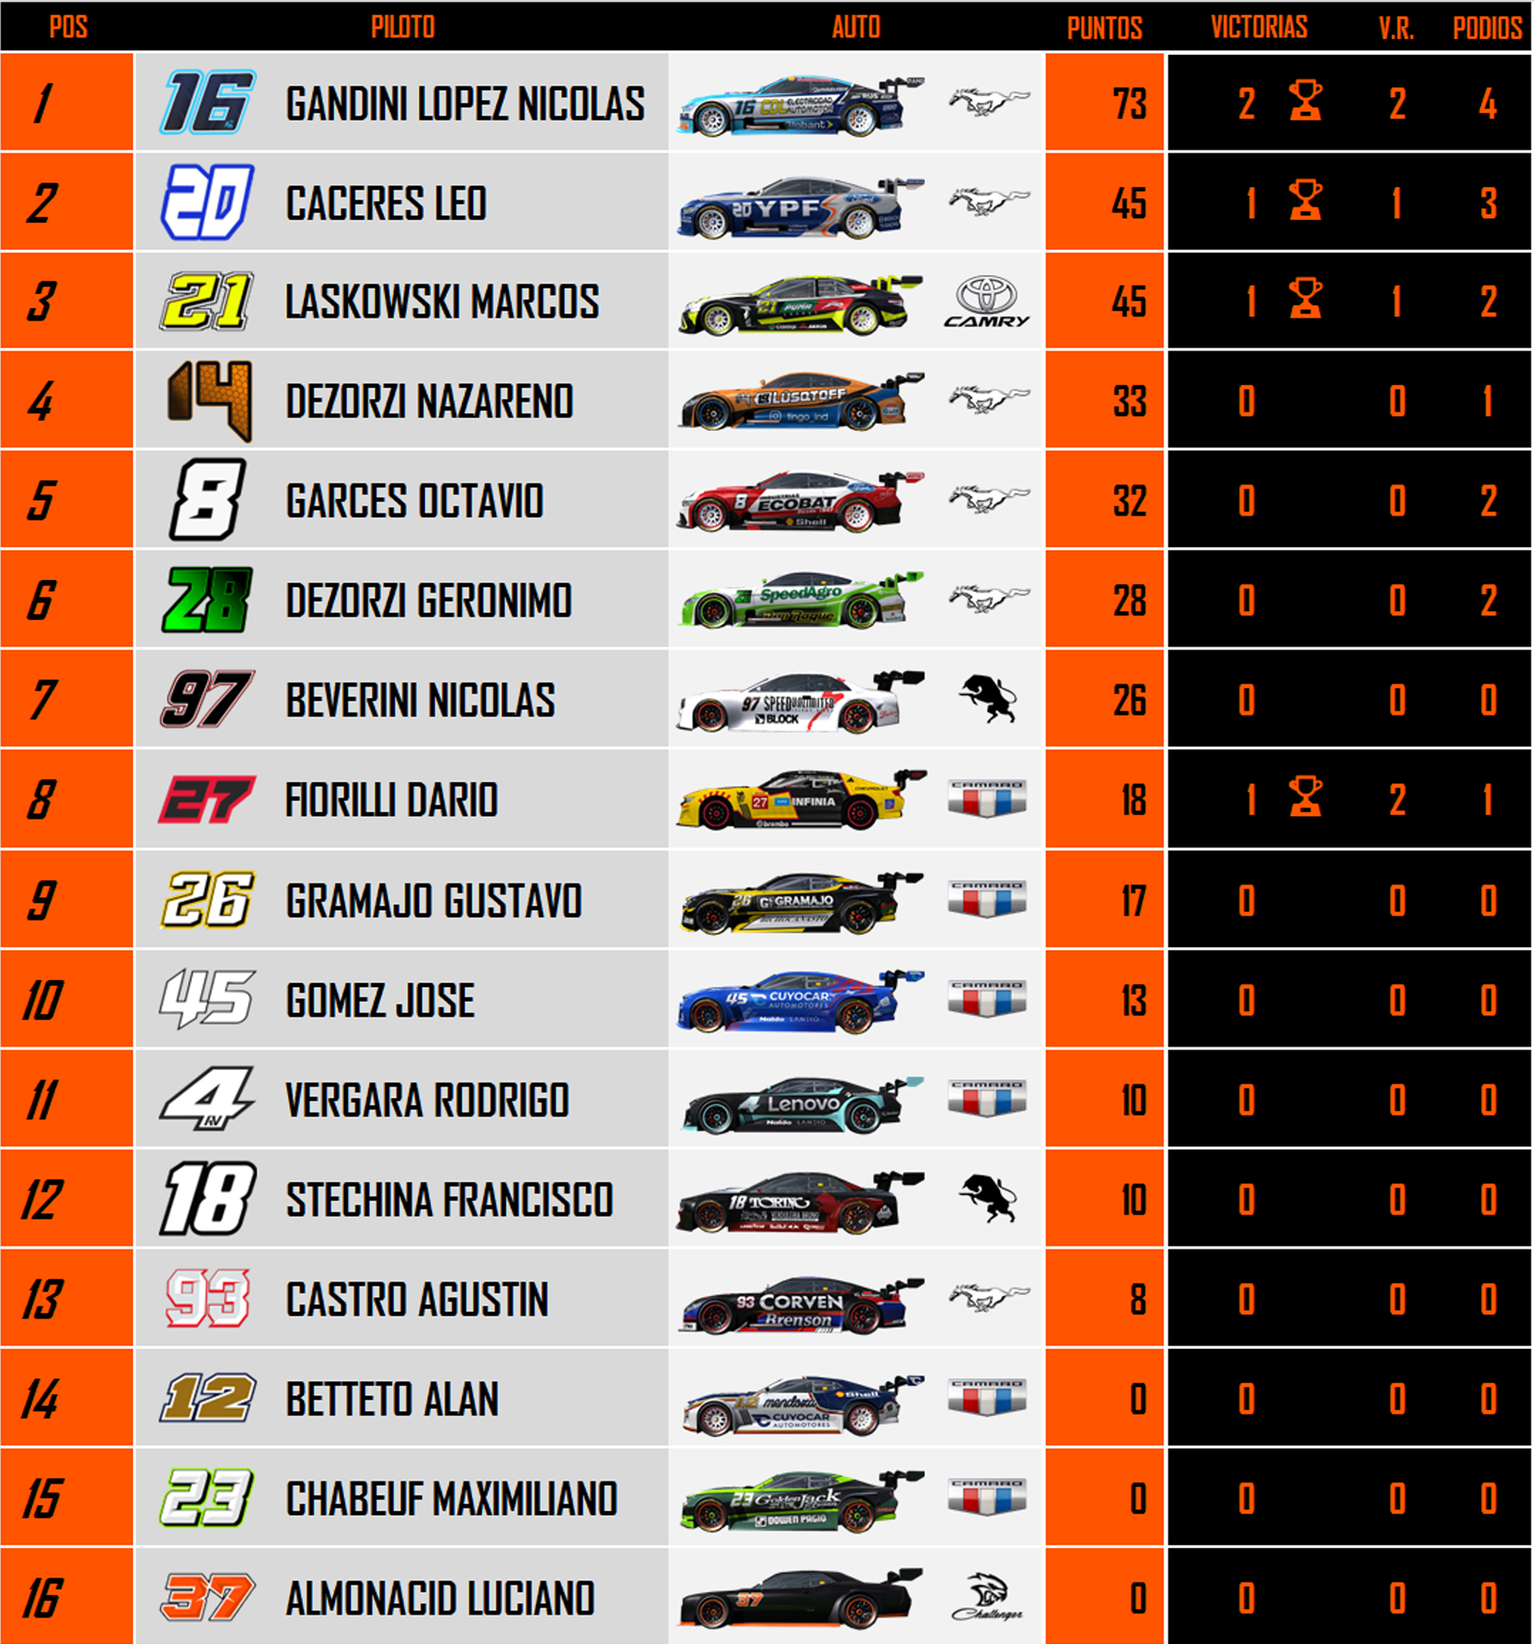
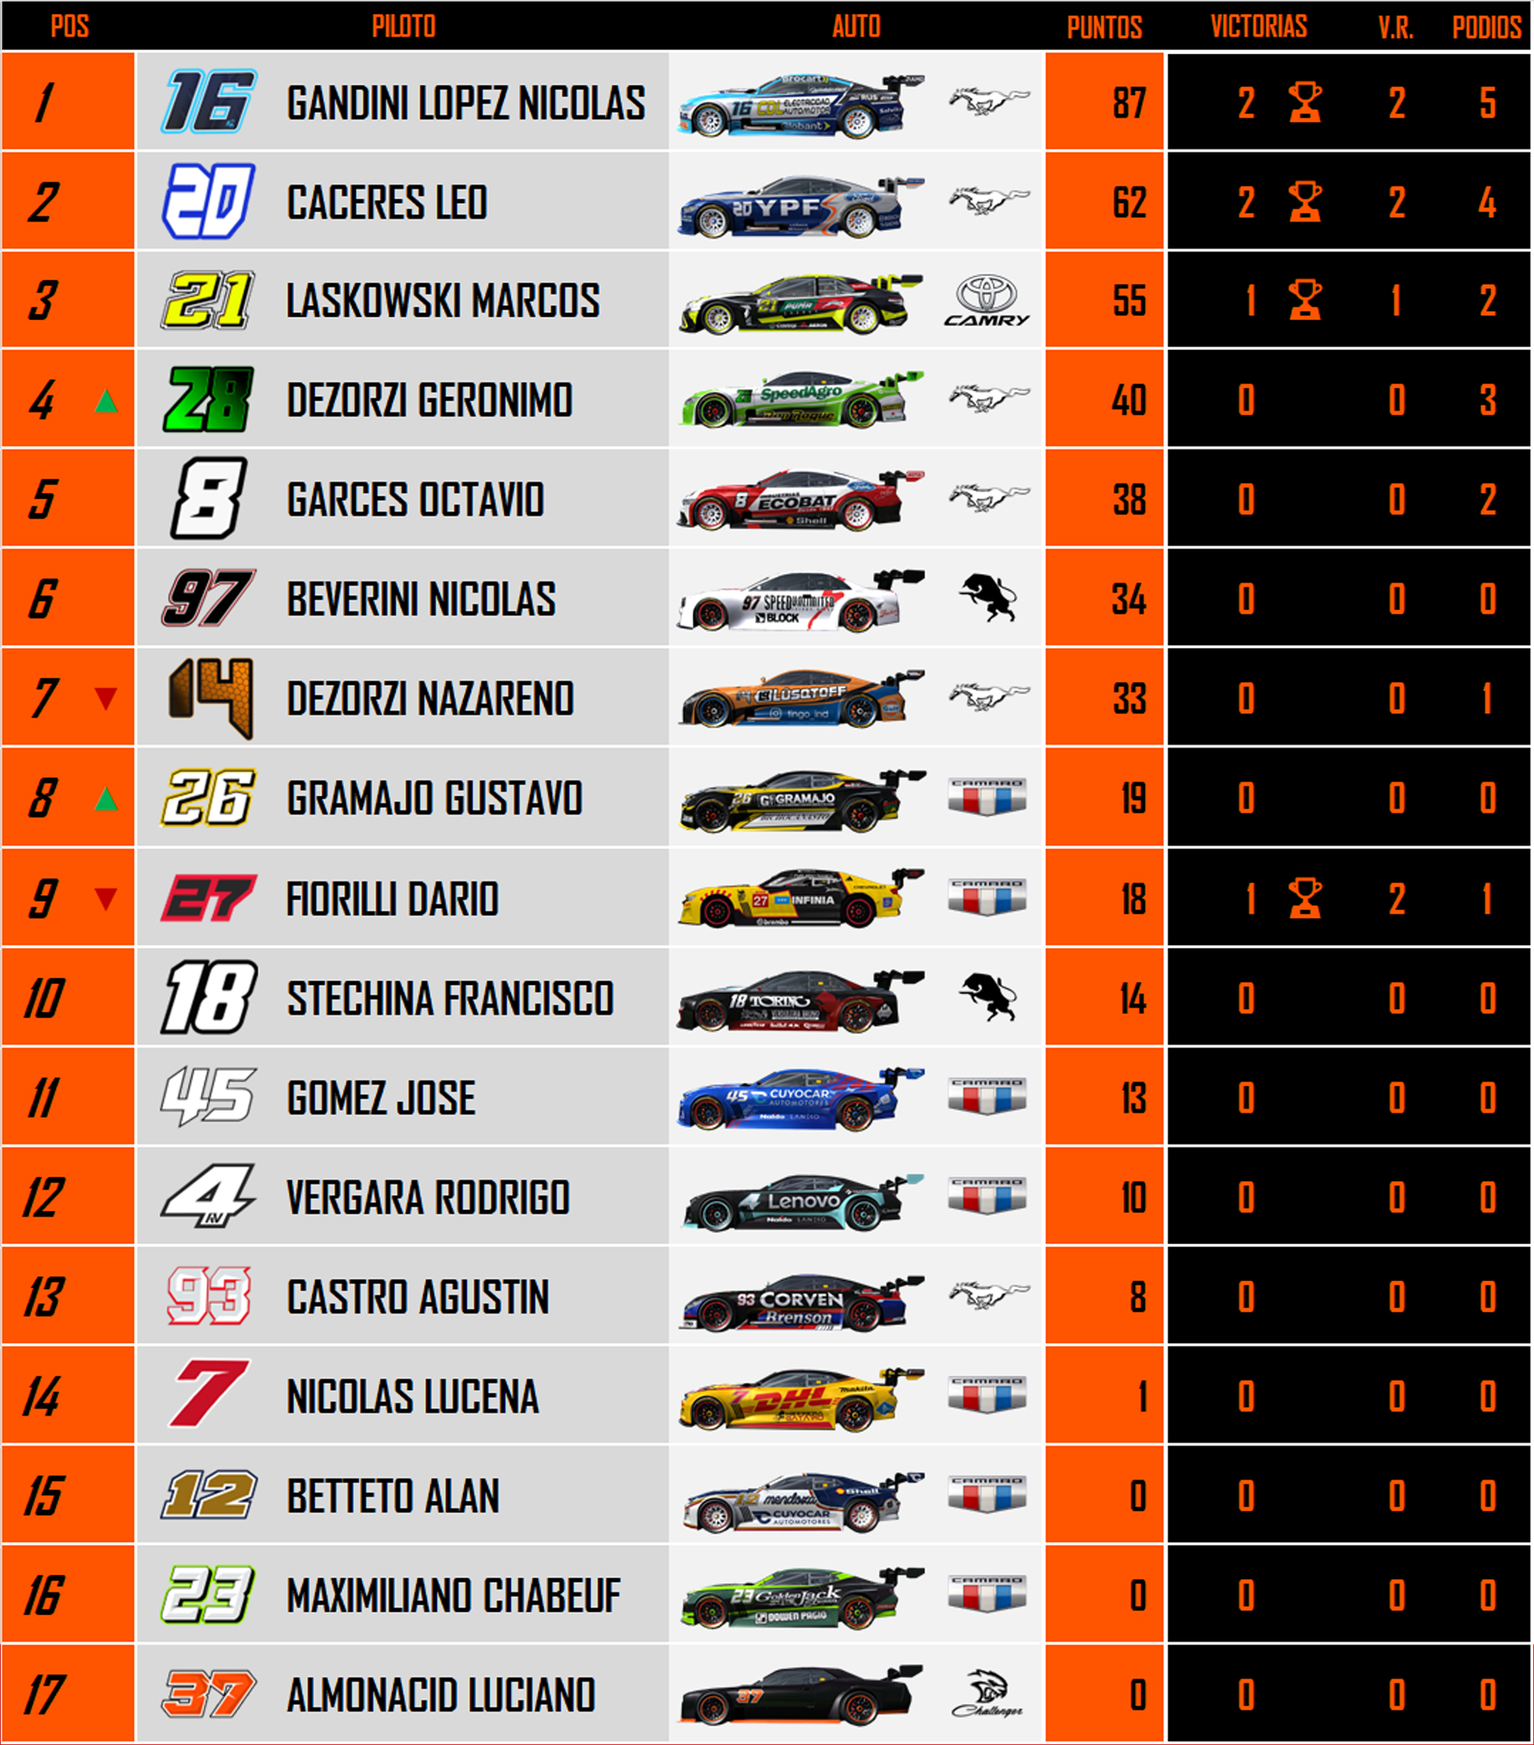
update 8 de julio

diff --git a/index.html b/index.html
@@ -19,12 +19,12 @@
     </nav>
     <aside class="banner-next-circuit-background">
         <section class="banner-next-circuit">
-            <p class="banner-date">PROXIMA FECHA: 30/06/2024</p>
+            <p class="banner-date">PROXIMA FECHA: 28/07/2024</p>
             <!--<section class="banner-section">
                 <img src="./assets/circuitos/ovalo.png" alt="" class="img-banner">
                 <p class="banner-name"> 50 DE RAFAELA</p>-->
           </section>
-          <img src="./assets/portada6.jpg" alt="" class="banner-section">
+          <img src="./assets/portada7.jpg" alt="" class="banner-section">
     </aside>
     <aside class="banner-countdown">
     <table id="countdown">
@@ -88,27 +88,28 @@
         <section class="resultadosmain">
           <section class="campeonatomain">
             <a href="campeonato.html" class="headercampeonatomain">Campeonato</a>
-            <div> <p class="posicion">1</p> <img src="./assets/Autos/16GANDINI.png" alt=""> <p class="nombrecampeonato">GANDINI LOPEZ</p> <p class="posicion pts">51</p></div>
-            <div> <p class="posicion">2</p> <img src="./assets/Autos/20CACERES.png" alt=""> <p class="nombrecampeonato">CACERES</p> <p class="posicion pts">45</p></div>
-            <div> <p class="posicion">3</p> <img src="./assets/Autos/08GARCES.png" alt=""> <p class="nombrecampeonato">GARCES</p> <p class="posicion pts">32</p></div>
-            <div> <p class="posicion">4</p> <img src="./assets/Autos/21LASKOWSKI.png" alt=""> <p class="nombrecampeonato">LASKOWSKI</p> <p class="posicion pts">27</p></div>
-            <div> <p class="posicion">5</p> <img src="./assets/Autos/97BEVERINI.png" alt=""> <p class="nombrecampeonato">BEVERINI</p> <p class="posicion pts">26</p></div>
+            <div> <p class="posicion">1</p> <img src="./assets/Autos/16GANDINI.png" alt=""> <p class="nombrecampeonato">GANDINI LOPEZ</p> <p class="posicion pts">87</p></div>
+            <div> <p class="posicion">2</p> <img src="./assets/Autos/20CACERES.png" alt=""> <p class="nombrecampeonato">CACERES</p> <p class="posicion pts">62</p></div>
+            <div> <p class="posicion">3</p> <img src="./assets/Autos/21LASKOWSKI.png" alt=""> <p class="nombrecampeonato">LASKOWSKI</p> <p class="posicion pts">55</p></div>
+            <div> <p class="posicion">4</p> <img src="./assets/Autos/28DEZORZI.png" alt=""> <p class="nombrecampeonato">DEZORZI</p> <p class="posicion pts">40</p></div>
+            <div> <p class="posicion">5</p> <img src="./assets/Autos/08GARCES.png" alt=""> <p class="nombrecampeonato">GARCES</p> <p class="posicion pts">38</p></div>
           </section>
           <section class="carreramain">
             <p class="headercampeonatomain">Ultima Carrera</p>
-            <div> <p class="posicion">1</p> <img src="./assets/Autos/NUMEROS/21LASKOWSKI.png" alt=""> <p class="nombrecampeonato">MARCOS LASKOWSKI</p></div>
+            <div> <p class="posicion">1</p> <img src="./assets/Autos/NUMEROS/20CACERES.png" alt=""> <p class="nombrecampeonato">LEO CACERES</p></div>
             <div> <p class="posicion">2</p> <img src="./assets/Autos/NUMEROS/16NGL.png" alt=""> <p class="nombrecampeonato">NICOLAS GANDINI LOPEZ</p></div>
-            <div> <p class="posicion">3</p> <img src="./assets/Autos/NUMEROS/8GARCES.png" alt=""> <p class="nombrecampeonato">OCTAVIO GARCES</p></div>
-            <div> <p class="posicion">4</p> <img src="./assets/Autos/NUMEROS/20CACERES.png" alt=""> <p class="nombrecampeonato">LEO CACERES</p></div>
-            <div> <p class="posicion">5</p> <img src="./assets/Autos/NUMEROS/18stechini.png" alt=""> <p class="nombrecampeonato">FRANCISCO STECHINA</p></div>
-            <div> <p class="posicion">6</p> <img src="./assets/Autos/NUMEROS/26GRAMAJO.png" alt=""> <p class="nombrecampeonato">GUSTAVO GRAMAJO</p></div>
-            <div> <p class="posicion">7</p> <img src="./assets/Autos/NUMEROS/45GOMEZ.png" alt=""> <p class="nombrecampeonato">JOSE GOMEZ</p></div>
-            <div> <p class="posicion">8</p> <img src="./assets/Autos/NUMEROS/97BEVERINI.png" alt=""> <p class="nombrecampeonato">NICOLAS BEVERINI</p></div>
+            <div> <p class="posicion">3</p> <img src="./assets/Autos/NUMEROS/28DEZORZI.png" alt=""> <p class="nombrecampeonato">GERONIMO DEZORZI</p></div>
+            <div> <p class="posicion">4</p> <img src="./assets/Autos/NUMEROS/21LASKOWSKI.png" alt=""> <p class="nombrecampeonato">MARCOS LASKOWSKI</p></div>
+            <div> <p class="posicion">5</p> <img src="./assets/Autos/NUMEROS/97BEVERINI.png" alt=""> <p class="nombrecampeonato">NICOLAS BEVERINI</p></div>
+            <div> <p class="posicion">6</p> <img src="./assets/Autos/NUMEROS/8GARCES.png" alt=""> <p class="nombrecampeonato">OCTAVIO GARCES</p></div>
+            <div> <p class="posicion">7</p> <img src="./assets/Autos/NUMEROS/18stechini.png" alt=""> <p class="nombrecampeonato">FRANCISCO STECHINA</p></div>
+            <div> <p class="posicion">8</p> <img src="./assets/Autos/NUMEROS/26GRAMAJO.png" alt=""> <p class="nombrecampeonato">GUSTAVO GRAMAJO</p></div>
+            <div> <p class="posicion">9</p> <img src="./assets/Autos/NUMEROS/7LUCENA.png" alt=""> <p class="nombrecampeonato">NICOLAS LUCENA</p></div>
           </section>
         </section>
         <section class="carrouselsta">
           <p>ULTIMA CARRERA COMPLETA</p>
-          <iframe class="videocarreramain" src="https://www.youtube.com/embed/aRdhL1cANm8?si=mqEtnO8UrXr0YvK9" title="YouTube video player" frameborder="0" allow="accelerometer; autoplay; clipboard-write; encrypted-media; gyroscope; picture-in-picture; web-share" referrerpolicy="strict-origin-when-cross-origin" allowfullscreen></iframe>
+          <iframe class="videocarreramain" src="https://www.youtube.com/embed/7MJa9mUQ8cQ?si=h0Rix7i_mPAqwFTK" title="YouTube video player" frameborder="0" allow="accelerometer; autoplay; clipboard-write; encrypted-media; gyroscope; picture-in-picture; web-share" referrerpolicy="strict-origin-when-cross-origin" allowfullscreen></iframe>
         </section>
     </main>
     <footer class="footer-background">

diff --git a/pilotos/lucena.html b/pilotos/lucena.html
@@ -1,0 +1,76 @@
+<!DOCTYPE html>
+<html lang="en">
+<head>
+    <meta charset="UTF-8">
+    <meta name="viewport" content="width=device-width, initial-scale=1.0">
+    <title>STA VIRTUAL</title>
+    <link rel="shortcut icon" href="../assets/sta-icon.png" type="image/x-icon">
+    <link href="https://cdn.jsdelivr.net/npm/bootstrap@5.3.3/dist/css/bootstrap.min.css" rel="stylesheet" integrity="sha384-QWTKZyjpPEjISv5WaRU9OFeRpok6YctnYmDr5pNlyT2bRjXh0JMhjY6hW+ALEwIH" crossorigin="anonymous">
+    <link rel="stylesheet" href="../main.css">
+</head>
+<body>
+    <header class="headersta"><div><button id="button-menu-sta"></button><a href="../index.html"><img src="../assets/sta-logo.png" alt=""></a></div></header>
+    <nav id="menu-desplegable-sta">
+      <div class="menu-org">
+        <a href="../pilotos.html">LISTA DE PILOTOS</a>
+        <a href="../calendario.html">CALENDARIO</a>
+        <a href="../campeonato.html">CAMPEONATO</a>
+      </div>
+    </nav>
+    <main class="main-body">
+        <section class="body-piloto">
+            <img class="body-auto-piloto" src="../assets/Autos/7LUCENA.png" alt="chabeuf Auto">
+            <h2>Nicolas Lucena</h2>
+            <ul class="info-piloto">
+              <li><h4>APARICIONES:</h4><p>1</p></li>
+              <li><h4>VICTORIAS:</h4><p>0</p></li>
+              <li><h4>POLE-POSITIOS:</h4><p>0</p></li>
+              <li><h4>PODIOS:</h4><p>0</p></li>
+              <li><h4>VUELTAS RAPIDAS:</h4><p>0</p></li>
+            </ul>
+            <ul class="info-piloto">
+              <li><h4>MEJOR RESULTADO:</h4><p>9</p></li>
+              <li><h4>MEJOR POSICION DE LARGADA:</h4><p>7</p></li>
+              <li><h4>PUNTOS:</h4><p>1</p></li>
+              <li><h4>POSICION CAMPEONATO:</h4><p>14</p></li>
+              <li><h4>MARCA:</h4><p>CAMARO</p></li>
+            </ul>
+            <div class="seccion-logos">
+              <img class="body-piloto-numero" src="../assets/Autos/NUMEROS/7LUCENA.png" alt="chabeuf Numero">
+              <img class="body-piloto-numero" src="../assets/Autos/MARCAS/camaro.png" alt="camaro">
+            </div>
+            <section class="carrouselsta">
+              <p>Galería</p>
+                <div id="carouselExampleFade" class="carousel slide carousel-fade">
+                  <div class="carousel-inner">
+                    <div class="carousel-item active">
+                      <img src="../assets/capturas/no-pic.jpg" class="d-block w-100" alt="...">
+                    </div>
+                  </div>
+                    <button class="carousel-control-prev" type="button" data-bs-target="#carouselExampleFade" data-bs-slide="prev">
+                      <span class="carousel-control-prev-icon" aria-hidden="true"></span>
+                      <span class="visually-hidden">Previous</span>
+                    </button>
+                    <button class="carousel-control-next" type="button" data-bs-target="#carouselExampleFade" data-bs-slide="next">
+                      <span class="carousel-control-next-icon" aria-hidden="true"></span>
+                      <span class="visually-hidden">Next</span>
+                    </button>
+                  </div>
+            </section>
+        </section>
+    </main>
+    <footer class="footer-background">
+      <div class="footer">
+        <section class="footer-section">
+          <a class="link-ngl" href="https://ngldeveloper.ar/" rel="no-rel" target="_blank"><img src="../assets/ngl-developer.png" alt="Ngl Developer"></a>
+        </section>
+        <section class="footer-section footer-section-redes">
+          <a class="link-redes" href="https://www.instagram.com/sta.virtual/" rel="no-rel" target="_blank"><img src="../assets/instagram.png" alt=""></a>
+          <a class="link-redes" href="https://www.youtube.com/@sta.virtual/" rel="no-rel" target="_blank"><img src="../assets/youtube.png" alt=""></a>
+        </section>
+      </div>
+    </footer>
+    <script src="../main.js"></script>
+    <script src="https://cdn.jsdelivr.net/npm/bootstrap@5.3.3/dist/js/bootstrap.bundle.min.js" integrity="sha384-YvpcrYf0tY3lHB60NNkmXc5s9fDVZLESaAA55NDzOxhy9GkcIdslK1eN7N6jIeHz" crossorigin="anonymous"></script>
+  </body>
+</html>

diff --git a/calendario/rafaela.html b/calendario/rafaela.html
@@ -1,0 +1,50 @@
+<!DOCTYPE html>
+<html lang="en">
+<head>
+    <meta charset="UTF-8">
+    <meta name="viewport" content="width=device-width, initial-scale=1.0">
+    <title>STA VIRTUAL</title>
+    <link rel="shortcut icon" href="../assets/sta-icon.png" type="image/x-icon">
+    <link href="https://cdn.jsdelivr.net/npm/bootstrap@5.3.3/dist/css/bootstrap.min.css" rel="stylesheet" integrity="sha384-QWTKZyjpPEjISv5WaRU9OFeRpok6YctnYmDr5pNlyT2bRjXh0JMhjY6hW+ALEwIH" crossorigin="anonymous">
+    <link rel="stylesheet" href="../main.css">
+</head>
+<body>
+    <header class="headersta"><div><button id="button-menu-sta"></button><a href="../index.html"><img src="../assets/sta-logo.png" alt=""></a></div></header>
+    <nav id="menu-desplegable-sta">
+      <div class="menu-org">
+        <a href="../pilotos.html">LISTA DE PILOTOS</a>
+        <a href="../calendario.html">CALENDARIO</a>
+        <a href="../campeonato.html">CAMPEONATO</a>
+      </div>
+    </nav>
+    <main class="main-body">
+        <section class="body-piloto">
+            <h2>50 de Rafaela</h2>
+            <h5>Resultados Finales</h5>
+            <img class="final-img" src="../assets/resultados/fecha5-final.jpg" alt="resultados fecha">
+            <div class="seccion-logos">
+              <h5>Clasificacion</h5>
+              <img class="qualy-img" src="../assets/resultados/fecha5-qualy.jpg" alt="qualy">
+              <img class="trazado-img" src="../assets/circuitos/ovalo.png" alt="circuito">
+            </div>
+            <section class="carrouselsta">
+              <p>CARRERA COMPLETA</p>
+              <iframe class="videocarreramain" src="https://www.youtube.com/embed/XEI8lDIZtcY?si=g1vCbFUYwDasVxR1" title="YouTube video player" frameborder="0" allow="accelerometer; autoplay; clipboard-write; encrypted-media; gyroscope; picture-in-picture; web-share" referrerpolicy="strict-origin-when-cross-origin" allowfullscreen></iframe>
+            </section>
+        </section>
+    </main>
+    <footer class="footer-background">
+      <div class="footer">
+        <section class="footer-section">
+          <a class="link-ngl" href="https://ngldeveloper.ar/" rel="no-rel" target="_blank"><img src="../assets/ngl-developer.png" alt="Ngl Developer"></a>
+        </section>
+        <section class="footer-section footer-section-redes">
+          <a class="link-redes" href="https://www.instagram.com/sta.virtual/" rel="no-rel" target="_blank"><img src="../assets/instagram.png" alt=""></a>
+          <a class="link-redes" href="https://www.youtube.com/@sta.virtual/" rel="no-rel" target="_blank"><img src="../assets/youtube.png" alt=""></a>
+        </section>
+      </div>
+    </footer>
+    <script src="../main.js"></script>
+    <script src="https://cdn.jsdelivr.net/npm/bootstrap@5.3.3/dist/js/bootstrap.bundle.min.js" integrity="sha384-YvpcrYf0tY3lHB60NNkmXc5s9fDVZLESaAA55NDzOxhy9GkcIdslK1eN7N6jIeHz" crossorigin="anonymous"></script>
+  </body>
+</html>

diff --git a/pilotos.html b/pilotos.html
@@ -29,6 +29,10 @@
                 <section><img src="./assets/Autos/NUMEROS/4VERGARA.png" alt=""><h3>RODRIGO VERGARA</h3></section>
                 <img src="./assets/Autos/4VERGARA.png" alt="" class="img-auto-card">
             </a>
+            <a href="./pilotos/lucena.html" class="piloto-tarjeta">
+                <section><img src="./assets/Autos/NUMEROS/7LUCENA.png" alt=""><h3>NICOLAS LUCENA</h3></section>
+                <img src="./assets/Autos/7LUCENA.png" alt="" class="img-auto-card">
+            </a>
             <a href="./pilotos/garces.html" class="piloto-tarjeta">
                 <section><img src="./assets/Autos/NUMEROS/8GARCES.png" alt=""><h3>OCTAVIO GARCES</h3></section>
                 <img src="./assets/Autos/08GARCES.png" alt="" class="img-auto-card">
@@ -40,6 +44,10 @@
             <a href="./pilotos/gandini.html" class="piloto-tarjeta">
                 <section><img src="./assets/Autos/NUMEROS/16NGL.png" alt=""><h3>NICO GANDINI LOPEZ</h3></section>
                 <img src="./assets/Autos/16GANDINI.png" alt="" class="img-auto-card">
+            </a>
+            <a href="./pilotos/stechina.html" class="piloto-tarjeta">
+                <section><img src="./assets/Autos/NUMEROS/18stechini.png" alt=""><h3>FRANCISCO STECHINA</h3></section>
+                <img src="./assets/Autos/18stechina.png" alt="" class="img-auto-card">
             </a>
             <a href="./pilotos/caceres.html" class="piloto-tarjeta">
                 <section><img src="./assets/Autos/NUMEROS/20CACERES.png" alt=""><h3>LEO CACERES</h3></section>
@@ -85,10 +93,7 @@
                 <section><img src="./assets/Autos/NUMEROS/37almonacid.png" alt=""><h3>LUCIANO ALMONACID</h3></section>
                 <img src="./assets/Autos/37ALMONACID.png" alt="" class="img-auto-card">
             </a>
-            <a href="./pilotos/stechina.html" class="piloto-tarjeta">
-                <section><img src="./assets/Autos/NUMEROS/18stechini.png" alt=""><h3>FRANCISCO STECHINA</h3></section>
-                <img src="./assets/Autos/18stechina.png" alt="" class="img-auto-card">
-            </a>
+            
         </section>
     </main>
     <footer class="footer-background">

diff --git a/calendario.html b/calendario.html
@@ -65,7 +65,7 @@
                     <p>Vueltas: 19</p>
                 </section>
             </a>
-            <article href="" class="calendario-tarjeta">
+            <a href="./calendario/rafaela.html" class="calendario-tarjeta tarjeta-carrera-terminada">
                 <img src="./assets/circuitos/ovalo.png" alt="" class="img-circuito">
                 <section>
                     <h4>Fecha 5</h4>
@@ -74,7 +74,7 @@
                     <p>Fecha: 30/06/2024</p>
                     <p>50 MINUTOS</p>
                 </section>
-            </article>
+            </a>
             <article href="" class="calendario-tarjeta">
                 <img src="./assets/circuitos/laplata.png" alt="" class="img-circuito">
                 <section>
@@ -82,7 +82,7 @@
                     <p>La Plata</p>
                     <p>Distancia: 4300mts</p>
                     <p>Fecha: 07/07/2024</p>
-                    <p>Vueltas: a definir</p>
+                    <p>Vueltas: 13 Vueltas</p>
                 </section>
             </article>
             <article href="" class="calendario-tarjeta">

diff --git a/campeonato.html b/campeonato.html
@@ -29,15 +29,6 @@
     <aside class="banner-next-circuit-background">
       <section class="banner-next-circuit">
           <section class="banner-section">
-              <p class="banner-name">RESULTADOS</p>
-          </section>
-  </aside>
-  <main class="main-body">
-      <img class="img-campeonato" src="./assets/campeonato-resultados.jpg" alt="">
-  </main>
-    <aside class="banner-next-circuit-background">
-      <section class="banner-next-circuit">
-          <section class="banner-section">
               <p class="banner-name">CAMPEONATO DE MARCAS</p>
           </section>
   </aside>

diff --git a/pilotos/gandini.html b/pilotos/gandini.html
@@ -44,7 +44,7 @@
                 <div id="carouselExampleFade" class="carousel slide carousel-fade">
                     <div class="carousel-inner">
                       <div class="carousel-item active">
-                        <img src="../assets/capturas/06.jpg" class="d-block w-100" alt="...">
+                        <img src="../assets/capturas/51.png" class="d-block w-100" alt="...">
                       </div>
                       <div class="carousel-item">
                         <img src="../assets/capturas/09.jpg" class="d-block w-100" alt="...">

diff --git a/main.js b/main.js
@@ -4,7 +4,7 @@ const menudesplegable = document.getElementById('menu-desplegable-sta')
 menubtn.addEventListener('click',function(){if (menudesplegable.classList.contains("menu-desplegado")){menudesplegable.classList.remove("menu-desplegado")}else{menudesplegable.classList.add("menu-desplegado")}})
 
 
-const storeOpening = new Date('jul 07, 2024 22:00:00');
+const storeOpening = new Date('jul 29, 2024 19:00:00');
 setInterval ('setCountdown(storeOpening)', 1000);
 
 function setCountdown(countingDownTime) {
